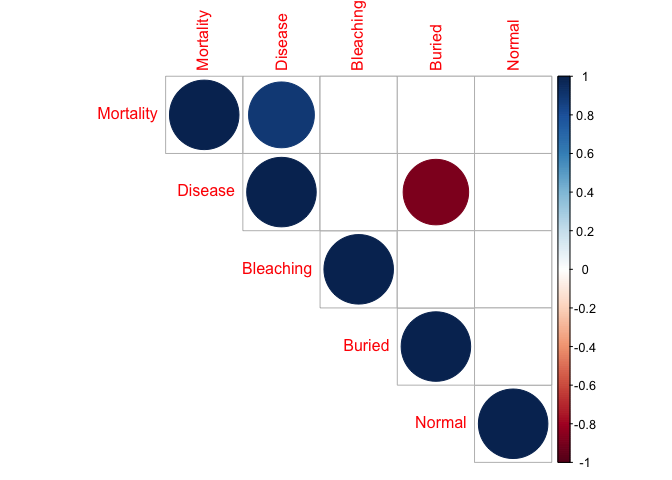
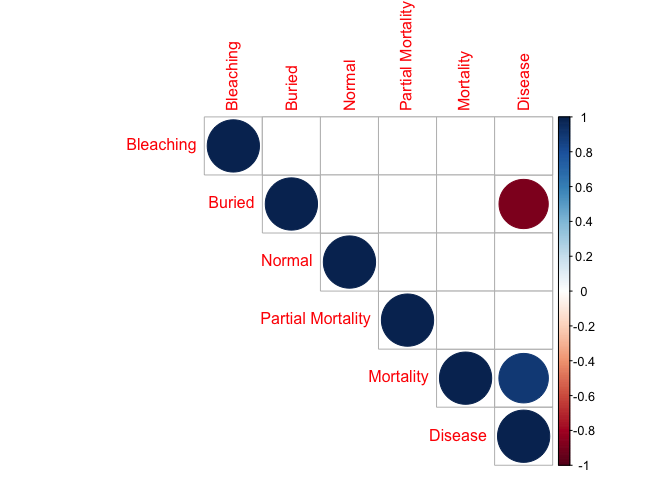
updating correlations with partial mortality

Changed region(s): [[0.125, 0.0, 0.9062, 0.9688]]

diff --git a/SCTLD_surv_corr.md b/SCTLD_surv_corr.md
@@ -88,17 +88,17 @@ library(kableExtra)
 ```
 
 ``` r
-df=read.csv("9sp_perc.csv") #time by months; excludes missing corals
+df=read.csv("9sp_corr.csv") #time by months; excludes missing corals
 glimpse(df)
 ```
 
-    ## Rows: 45
+    ## Rows: 63
     ## Columns: 5
-    ## $ Species  <chr> "DCLI", "DSTO", "DSTR", "MCAV", "MMEA", "PAST", "SBOU", "SIN…
-    ## $ State    <chr> "Mortality", "Mortality", "Mortality", "Mortality", "Mortali…
-    ## $ Impacted <int> 5, 49, 14, 11, 47, 7, 14, 0, 3, 4, 24, 8, 29, 24, 1, 14, 0, …
-    ## $ Total    <int> 17, 74, 16, 93, 51, 96, 110, 41, 62, 17, 74, 16, 93, 51, 96,…
-    ## $ Perc     <dbl> 0.29411765, 0.66216216, 0.87500000, 0.11827957, 0.92156863, …
+    ## $ Species           <chr> "DCLI", "DSTO", "DSTR", "MCAV", "MMEA", "PAST", "SB…
+    ## $ Condition         <chr> "Mortality", "Mortality", "Mortality", "Mortality",…
+    ## $ Value             <int> 5, 49, 14, 11, 47, 7, 14, 0, 3, 4, 24, 8, 29, 24, 1…
+    ## $ Total.Individuals <int> 17, 74, 16, 93, 51, 96, 110, 41, 62, 17, 74, 16, 93…
+    ## $ Percentage        <dbl> 0.29411765, 0.66216216, 0.87500000, 0.11827957, 0.9…
 
 ``` r
 library(reshape2)
@@ -112,46 +112,57 @@ library(reshape2)
     ##     smiths
 
 ``` r
-df_w <- dcast(df, Species ~ State, value.var="Perc")
+df_w <- dcast(df, Species ~ Condition, value.var="Percentage")
 df_w
 ```
 
-    ##   Species  Bleaching     Buried    Disease  Mortality     Normal
-    ## 1    DCLI 0.00000000 0.00000000 0.23529412 0.29411765 0.05882353
-    ## 2    DSTO 0.01351351 0.04054054 0.32432432 0.66216216 0.04054054
-    ## 3    DSTR 0.06250000 0.00000000 0.50000000 0.87500000 0.00000000
-    ## 4    MCAV 0.07526882 0.00000000 0.31182796 0.11827957 0.24731183
-    ## 5    MMEA 0.21568628 0.00000000 0.47058824 0.92156863 0.01960784
-    ## 6    PAST 0.15625000 0.07291667 0.01041667 0.07291667 0.37500000
-    ## 7    SBOU 0.01818182 0.06363636 0.12727273 0.12727273 0.10909091
-    ## 8    SINT 0.46341463 0.09756098 0.00000000 0.00000000 0.07317073
-    ## 9    SSID 0.12903226 0.09677419 0.00000000 0.04838710 0.38709677
+    ##   Species  Bleaching     Buried    Disease  Mortality     Normal Partial Burial
+    ## 1    DCLI 0.00000000 0.00000000 0.23529412 0.29411765 0.05882353      0.7647059
+    ## 2    DSTO 0.01351351 0.04054054 0.32432432 0.66216216 0.04054054      0.6621622
+    ## 3    DSTR 0.06250000 0.00000000 0.50000000 0.87500000 0.00000000      0.2500000
+    ## 4    MCAV 0.07526882 0.00000000 0.31182796 0.11827957 0.24731183      0.5268817
+    ## 5    MMEA 0.21568628 0.00000000 0.47058824 0.92156863 0.01960784      0.5490196
+    ## 6    PAST 0.15625000 0.07291667 0.01041667 0.07291667 0.37500000      0.4895833
+    ## 7    SBOU 0.01818182 0.06363636 0.12727273 0.12727273 0.10909091      0.7727273
+    ## 8    SINT 0.46341463 0.09756098 0.00000000 0.00000000 0.07317073      0.8292683
+    ## 9    SSID 0.12903226 0.09677419 0.00000000 0.04838710 0.38709677      0.4838710
+    ##   Partial Mortality
+    ## 1         0.6470588
+    ## 2         0.4324324
+    ## 3         0.2500000
+    ## 4         0.2580645
+    ## 5         0.3921569
+    ## 6         0.2187500
+    ## 7         0.6454545
+    ## 8         0.4878049
+    ## 9         0.3548387
 
 ``` r
 #Select 
-df_corr <- df_w %>% select(Mortality, Buried, Disease, Bleaching, Normal)
+df_corr <- df_w %>% select(Mortality, Buried, Disease, Bleaching, Normal, "Partial Mortality")
 head(df_corr)
 ```
 
-    ##    Mortality     Buried    Disease  Bleaching     Normal
-    ## 1 0.29411765 0.00000000 0.23529412 0.00000000 0.05882353
-    ## 2 0.66216216 0.04054054 0.32432432 0.01351351 0.04054054
-    ## 3 0.87500000 0.00000000 0.50000000 0.06250000 0.00000000
-    ## 4 0.11827957 0.00000000 0.31182796 0.07526882 0.24731183
-    ## 5 0.92156863 0.00000000 0.47058824 0.21568628 0.01960784
-    ## 6 0.07291667 0.07291667 0.01041667 0.15625000 0.37500000
+    ##    Mortality     Buried    Disease  Bleaching     Normal Partial Mortality
+    ## 1 0.29411765 0.00000000 0.23529412 0.00000000 0.05882353         0.6470588
+    ## 2 0.66216216 0.04054054 0.32432432 0.01351351 0.04054054         0.4324324
+    ## 3 0.87500000 0.00000000 0.50000000 0.06250000 0.00000000         0.2500000
+    ## 4 0.11827957 0.00000000 0.31182796 0.07526882 0.24731183         0.2580645
+    ## 5 0.92156863 0.00000000 0.47058824 0.21568628 0.01960784         0.3921569
+    ## 6 0.07291667 0.07291667 0.01041667 0.15625000 0.37500000         0.2187500
 
 ``` r
 res <- cor(df_corr)
 round(res,2)
 ```
 
-    ##           Mortality Buried Disease Bleaching Normal
-    ## Mortality      1.00  -0.66    0.90     -0.24  -0.68
-    ## Buried        -0.66   1.00   -0.89      0.48   0.51
-    ## Disease        0.90  -0.89    1.00     -0.37  -0.66
-    ## Bleaching     -0.24   0.48   -0.37      1.00   0.02
-    ## Normal        -0.68   0.51   -0.66      0.02   1.00
+    ##                   Mortality Buried Disease Bleaching Normal Partial Mortality
+    ## Mortality              1.00  -0.66    0.90     -0.24  -0.68             -0.16
+    ## Buried                -0.66   1.00   -0.89      0.48   0.51              0.08
+    ## Disease                0.90  -0.89    1.00     -0.37  -0.66             -0.17
+    ## Bleaching             -0.24   0.48   -0.37      1.00   0.02             -0.11
+    ## Normal                -0.68   0.51   -0.66      0.02   1.00             -0.43
+    ## Partial Mortality     -0.16   0.08   -0.17     -0.11  -0.43              1.00
 
 ``` r
 library(Hmisc)
@@ -177,23 +188,25 @@ res2 <-rcorr(as.matrix(df_corr))
 res2
 ```
 
-    ##           Mortality Buried Disease Bleaching Normal
-    ## Mortality      1.00  -0.66    0.90     -0.24  -0.68
-    ## Buried        -0.66   1.00   -0.89      0.48   0.51
-    ## Disease        0.90  -0.89    1.00     -0.37  -0.66
-    ## Bleaching     -0.24   0.48   -0.37      1.00   0.02
-    ## Normal        -0.68   0.51   -0.66      0.02   1.00
+    ##                   Mortality Buried Disease Bleaching Normal Partial Mortality
+    ## Mortality              1.00  -0.66    0.90     -0.24  -0.68             -0.16
+    ## Buried                -0.66   1.00   -0.89      0.48   0.51              0.08
+    ## Disease                0.90  -0.89    1.00     -0.37  -0.66             -0.17
+    ## Bleaching             -0.24   0.48   -0.37      1.00   0.02             -0.11
+    ## Normal                -0.68   0.51   -0.66      0.02   1.00             -0.43
+    ## Partial Mortality     -0.16   0.08   -0.17     -0.11  -0.43              1.00
     ## 
     ## n= 9 
     ## 
     ## 
     ## P
-    ##           Mortality Buried Disease Bleaching Normal
-    ## Mortality           0.0515 0.0011  0.5409    0.0459
-    ## Buried    0.0515           0.0014  0.1878    0.1594
-    ## Disease   0.0011    0.0014         0.3269    0.0536
-    ## Bleaching 0.5409    0.1878 0.3269            0.9687
-    ## Normal    0.0459    0.1594 0.0536  0.9687
+    ##                   Mortality Buried Disease Bleaching Normal Partial Mortality
+    ## Mortality                   0.0515 0.0011  0.5409    0.0459 0.6845           
+    ## Buried            0.0515           0.0014  0.1878    0.1594 0.8397           
+    ## Disease           0.0011    0.0014         0.3269    0.0536 0.6549           
+    ## Bleaching         0.5409    0.1878 0.3269            0.9687 0.7717           
+    ## Normal            0.0459    0.1594 0.0536  0.9687           0.2449           
+    ## Partial Mortality 0.6845    0.8397 0.6549  0.7717    0.2449
 
 ``` r
 library(corrplot)
